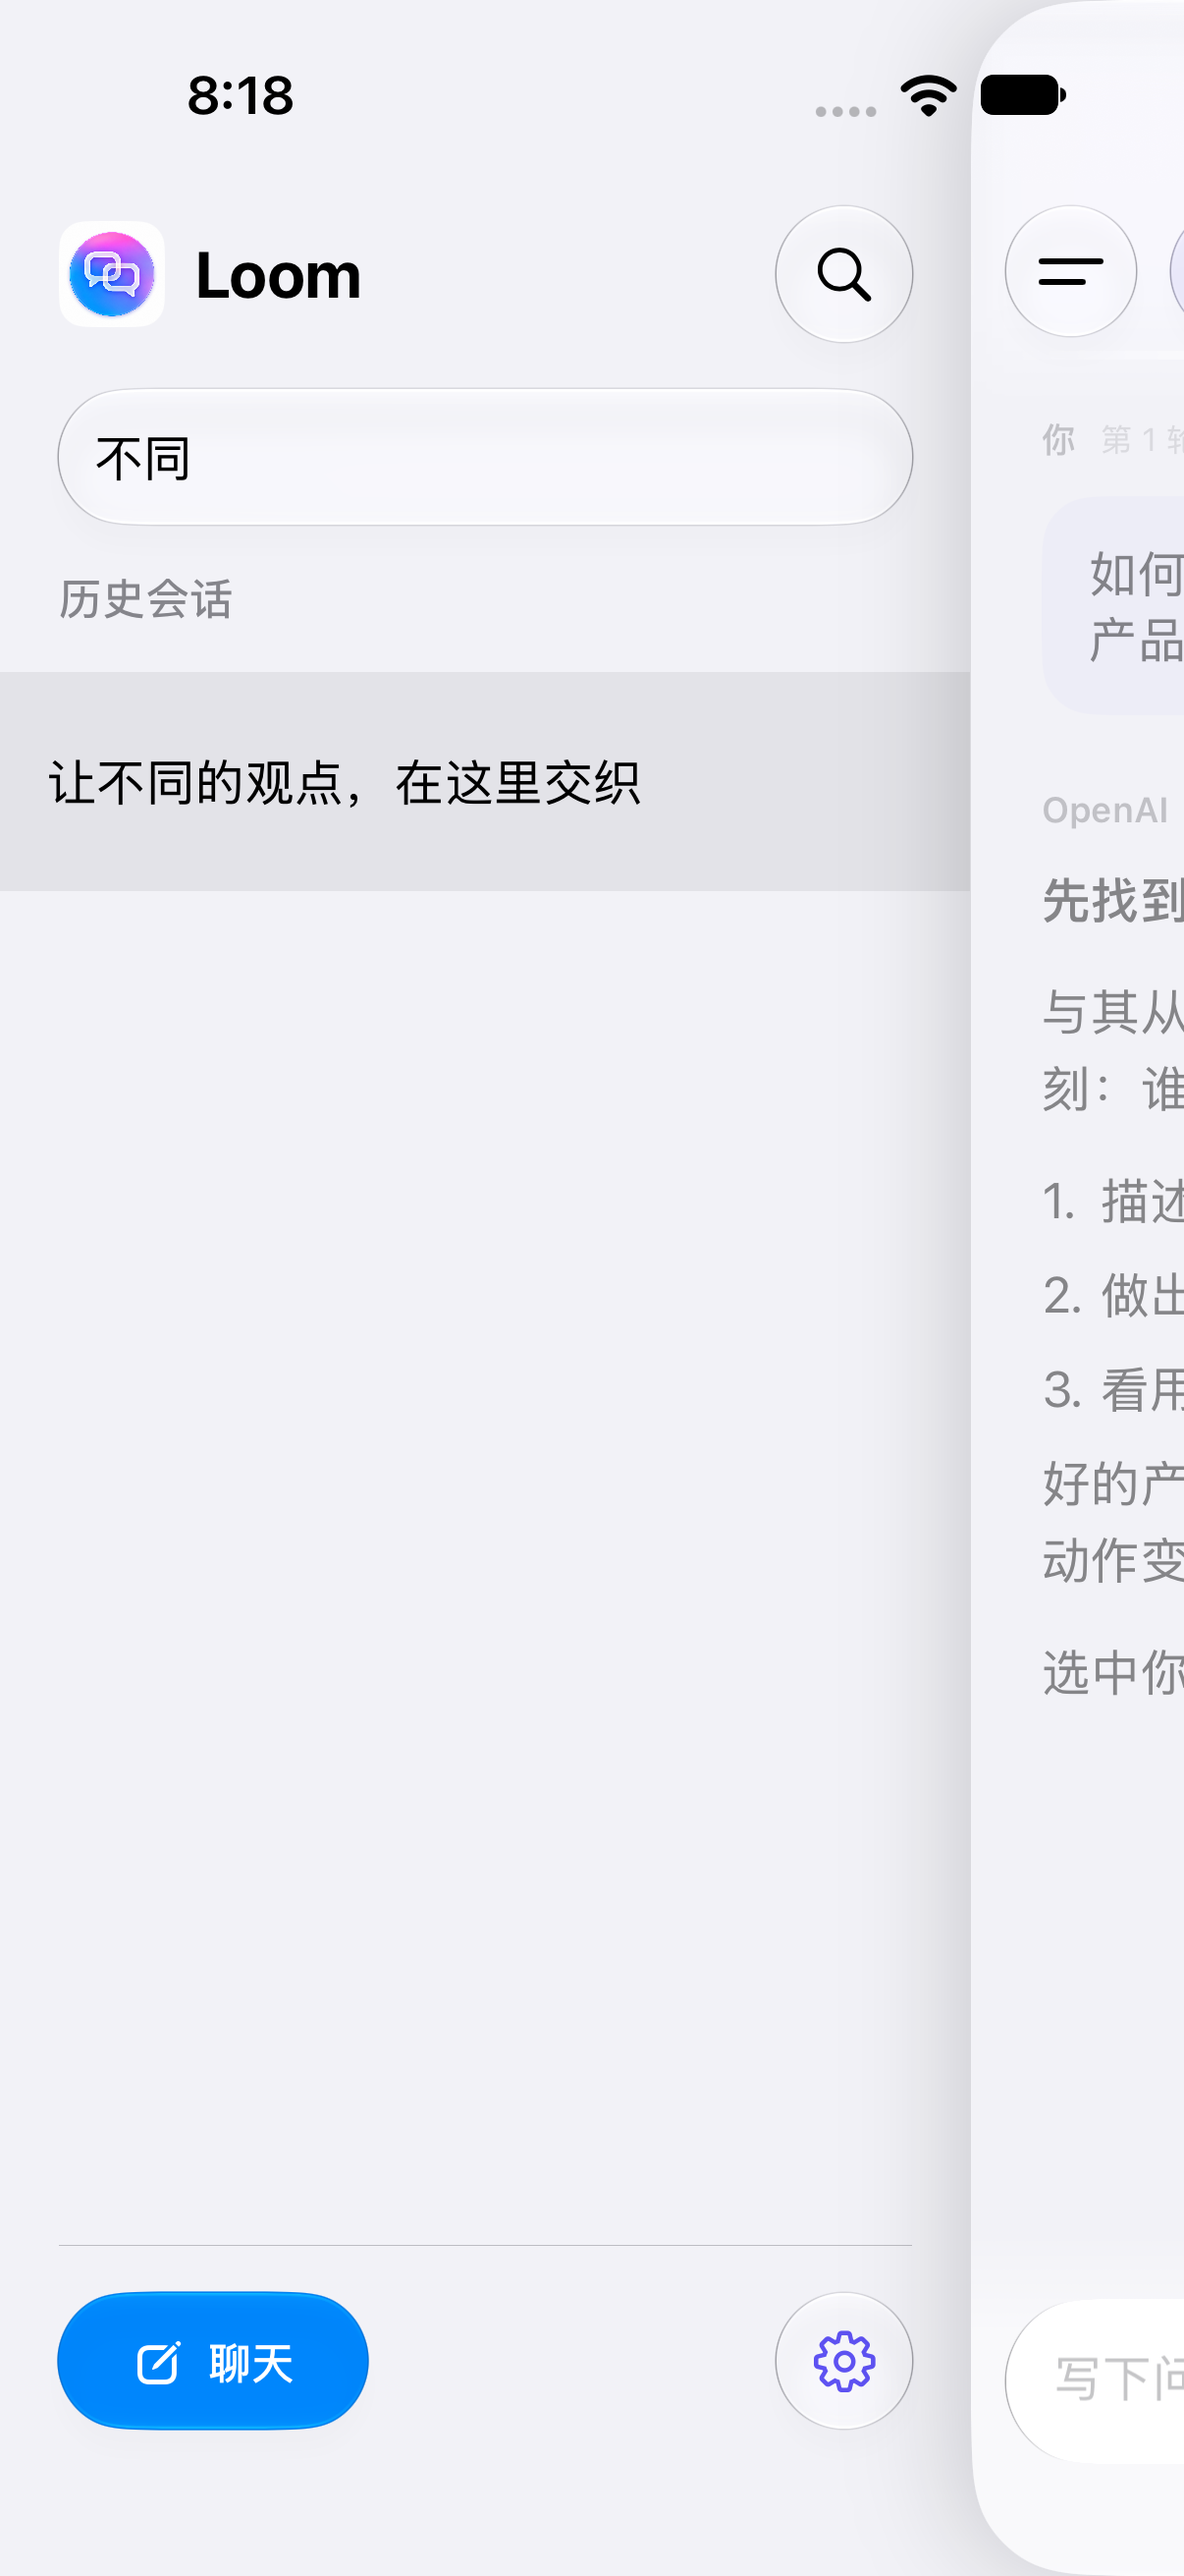
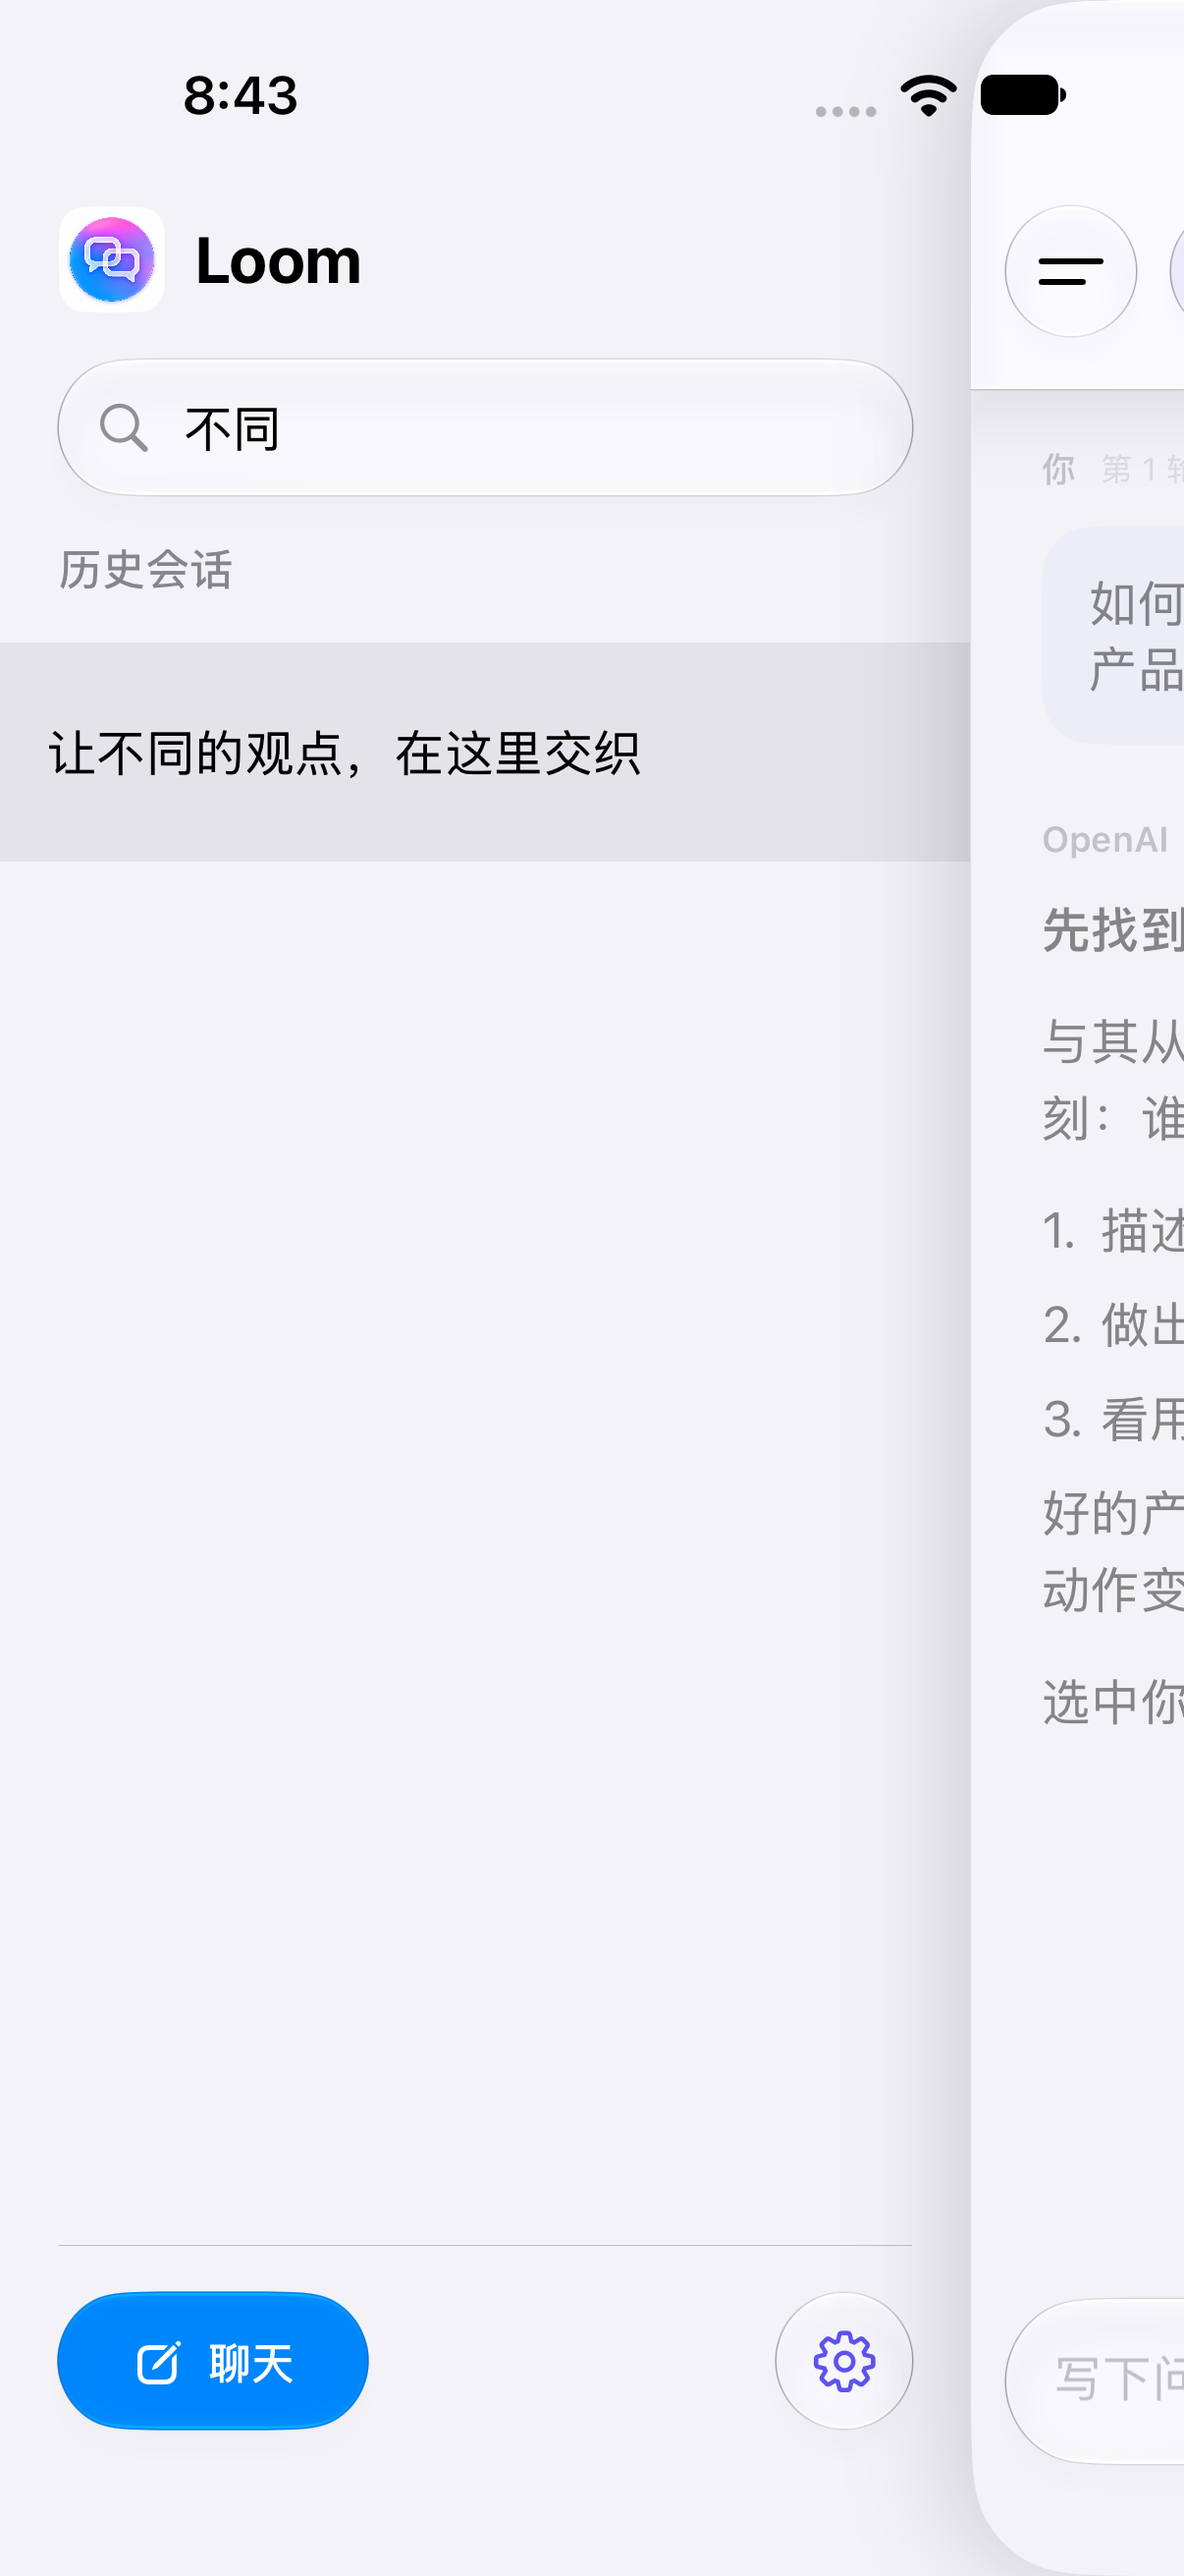
Make drawer search persistent and unify the top glass panel

diff --git a/Loom/Views/WorkspaceView.swift b/Loom/Views/WorkspaceView.swift
@@ -72,21 +72,7 @@ struct WorkspaceView: View {
                     .padding(.vertical, 4)
                     .padding(.bottom, 10)
                     .onGeometryChange(for: CGFloat.self) { $0.size.height } action: { topBarHeight = $0 }
-                    .background { ReadingBarGlass(edge: .top, safeAreaHeight: geometry.safeAreaInsets.top) }
-                    .overlay(alignment: .bottom) {
-                        Rectangle().fill(.clear)
-                            .frame(height: 12)
-                            .glassEffect(.regular, in: .rect(cornerRadius: 0))
-                            .mask {
-                                LinearGradient(colors: [.clear, .black, .black, .clear], startPoint: .leading, endPoint: .trailing)
-                                    .mask {
-                                        LinearGradient(colors: [.clear, .black, .clear], startPoint: .top, endPoint: .bottom)
-                                    }
-                            }
-                            .padding(.horizontal, 12)
-                            .allowsHitTesting(false)
-                            .accessibilityHidden(true)
-                    }
+                    .background { TopBarGlass(safeAreaHeight: geometry.safeAreaInsets.top) }
                     .allowsHitTesting(!drawerVisible)
                     .accessibilityHidden(drawerVisible)
                 }
@@ -316,29 +302,16 @@ struct MessageView: View {
 }
 
 
-/// Glass extends across the surrounding band and fades into the scrolling text.
-private struct ReadingBarGlass: View {
-    let edge: VerticalEdge
+/// One glass surface covers the status area and tabs; its lower edge is the boundary.
+private struct TopBarGlass: View {
     let safeAreaHeight: CGFloat
     var body: some View {
         GeometryReader { geometry in
             Rectangle()
                 .fill(.clear)
-                .frame(height: geometry.size.height + safeAreaHeight + 16)
-                .glassEffect(.regular.tint(Color(uiColor: .systemBackground).opacity(edge == .top ? 0.03 : 0)), in: .rect(cornerRadius: 0))
-                .opacity(edge == .top ? 0.8 : 0.55)
-                .mask {
-                    LinearGradient(stops: edge == .top ? [
-                        .init(color: .black, location: 0),
-                        .init(color: .black, location: 0.7),
-                        .init(color: .clear, location: 1)
-                    ] : [
-                        .init(color: .clear, location: 0),
-                        .init(color: .black, location: 0.3),
-                        .init(color: .black, location: 1)
-                    ], startPoint: .top, endPoint: .bottom)
-                }
-                .offset(y: edge == .top ? -safeAreaHeight : -16)
+                .frame(height: geometry.size.height + safeAreaHeight)
+                .glassEffect(.regular, in: .rect(cornerRadius: 0))
+                .offset(y: -safeAreaHeight)
         }
         .allowsHitTesting(false)
         .accessibilityHidden(true)

diff --git a/Loom/Views/ConversationDrawer.swift b/Loom/Views/ConversationDrawer.swift
@@ -6,7 +6,6 @@ struct ConversationDrawer: View {
     var close: () -> Void
     var settings: () -> Void
     @State private var search = ""
-    @State private var searching = false
     @FocusState private var searchFocused: Bool
     @State private var pendingSelection: UUID?
     @State private var pendingDeletion: UUID?
@@ -30,27 +29,21 @@ struct ConversationDrawer: View {
                     .accessibilityHidden(true)
                 Text("Loom").font(.title2.bold())
                 Spacer()
-                Button {
-                    withAnimation(.smooth(duration: 0.2)) { searching.toggle() }
-                    searchFocused = searching
-                    if !searching { search = "" }
-                } label: {
-                    Image(systemName: "magnifyingglass").font(.system(size: 19))
-                        .frame(width: 32, height: 32)
-                }
-                .buttonStyle(.glass).buttonBorderShape(.circle).foregroundStyle(.primary)
-                .accessibilityLabel("搜索聊天")
-                .accessibilityIdentifier("drawer-search-button")
             }.padding(.horizontal, 20)
-            if searching {
+            HStack(spacing: 10) {
+                Image(systemName: "magnifyingglass")
+                    .foregroundStyle(.secondary)
+                    .accessibilityHidden(true)
                 TextField("搜索会话", text: $search)
                     .focused($searchFocused)
                     .submitLabel(.search)
-                    .padding(12).glassEffect(.regular.interactive(), in: .capsule)
-                    .padding(.horizontal, 20)
+                    .textInputAutocapitalization(.never)
+                    .autocorrectionDisabled()
                     .accessibilityIdentifier("drawer-search")
-                    .transition(.opacity.combined(with: .move(edge: .top)))
             }
+            .padding(12)
+            .glassEffect(.regular.interactive(), in: .capsule)
+            .padding(.horizontal, 20)
             Text("历史会话").font(.subheadline.weight(.medium)).foregroundStyle(.secondary)
                 .frame(maxWidth: .infinity, alignment: .leading).padding(.horizontal, 20)
             List {

diff --git a/LoomUITests/LoomUITests.swift b/LoomUITests/LoomUITests.swift
@@ -93,7 +93,6 @@ import UIKit
         app.buttons[oldID].tap()
         XCTAssertTrue(app.staticTexts["继续讨论第1轮的问题"].firstMatch.waitForExistence(timeout: 5))
         menu.tap()
-        app.buttons["drawer-search-button"].tap()
         let search = app.textFields["drawer-search"]
         search.tap(); search.typeText("unlikely-conversation-123")
         XCTAssertEqual(app.buttons.matching(NSPredicate(format: "identifier BEGINSWITH %@", "history-row-")).count, 0)
@@ -112,9 +111,10 @@ import UIKit
         let settings = app.buttons["drawer-settings"]
         let chatY = chat.frame.minY
         let settingsY = settings.frame.minY
-        app.buttons["drawer-search-button"].tap()
         let search = app.textFields["drawer-search"]
         XCTAssertTrue(search.waitForExistence(timeout: 5))
+        XCTAssertFalse(app.buttons["drawer-search-button"].exists)
+        XCTAssertLessThan(search.frame.maxY, app.staticTexts["历史会话"].frame.minY)
         search.tap()
         search.typeText("不同")
         XCTAssertTrue(app.keyboards.firstMatch.waitForExistence(timeout: 5))

diff --git a/Loom/Views/ComposerView.swift b/Loom/Views/ComposerView.swift
@@ -43,7 +43,7 @@ struct ComposerView: View {
                 .accessibilityIdentifier("send-button")
             }
             .padding(6)
-            .glassEffect(.clear.interactive(), in: .rect(cornerRadius: 28))
+            .glassEffect(.regular.interactive(), in: .rect(cornerRadius: 28))
         }
         .padding(.horizontal, 12).padding(.top, 6).padding(.bottom, 4)
         .frame(maxWidth: 1100).frame(maxWidth: .infinity)
